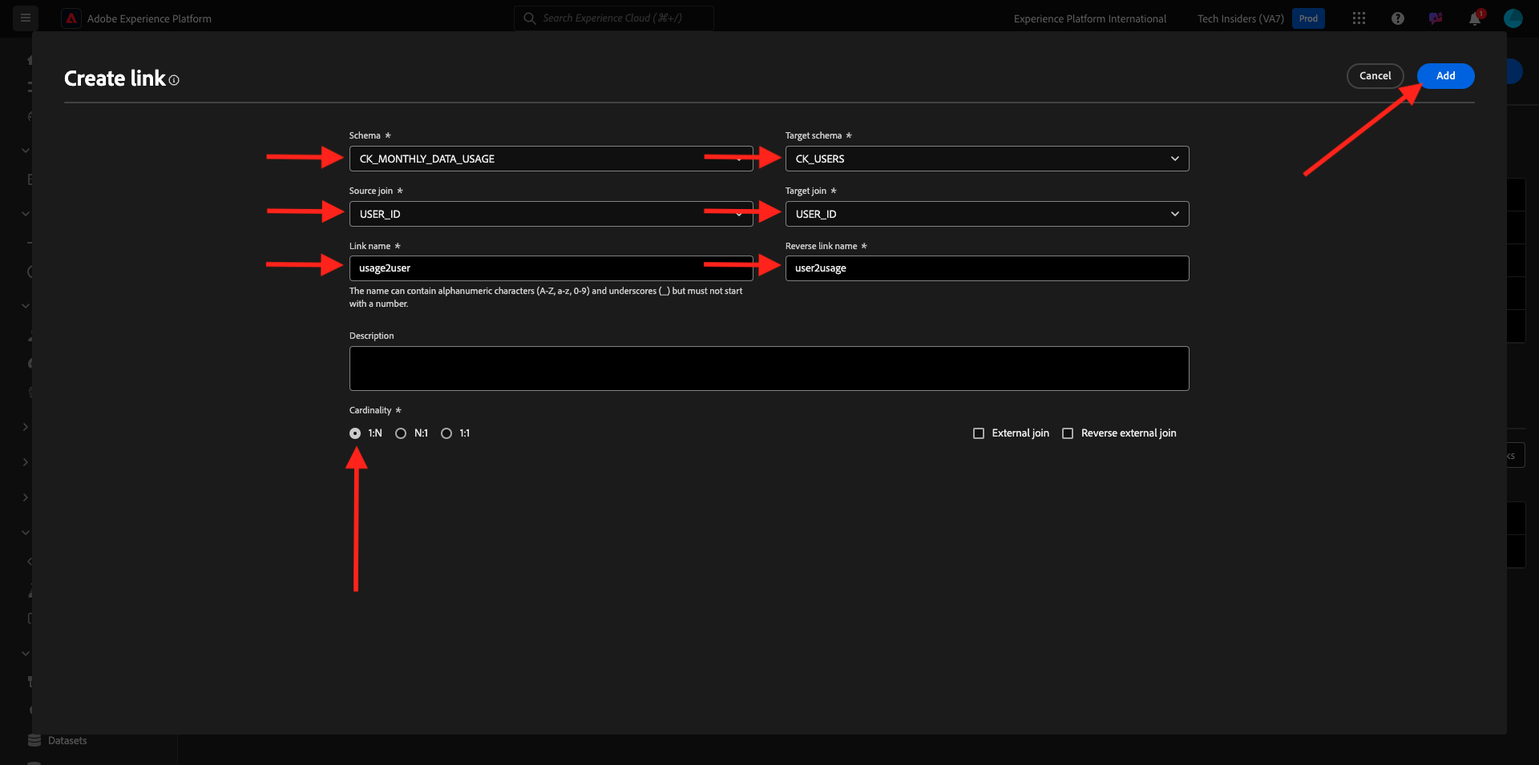
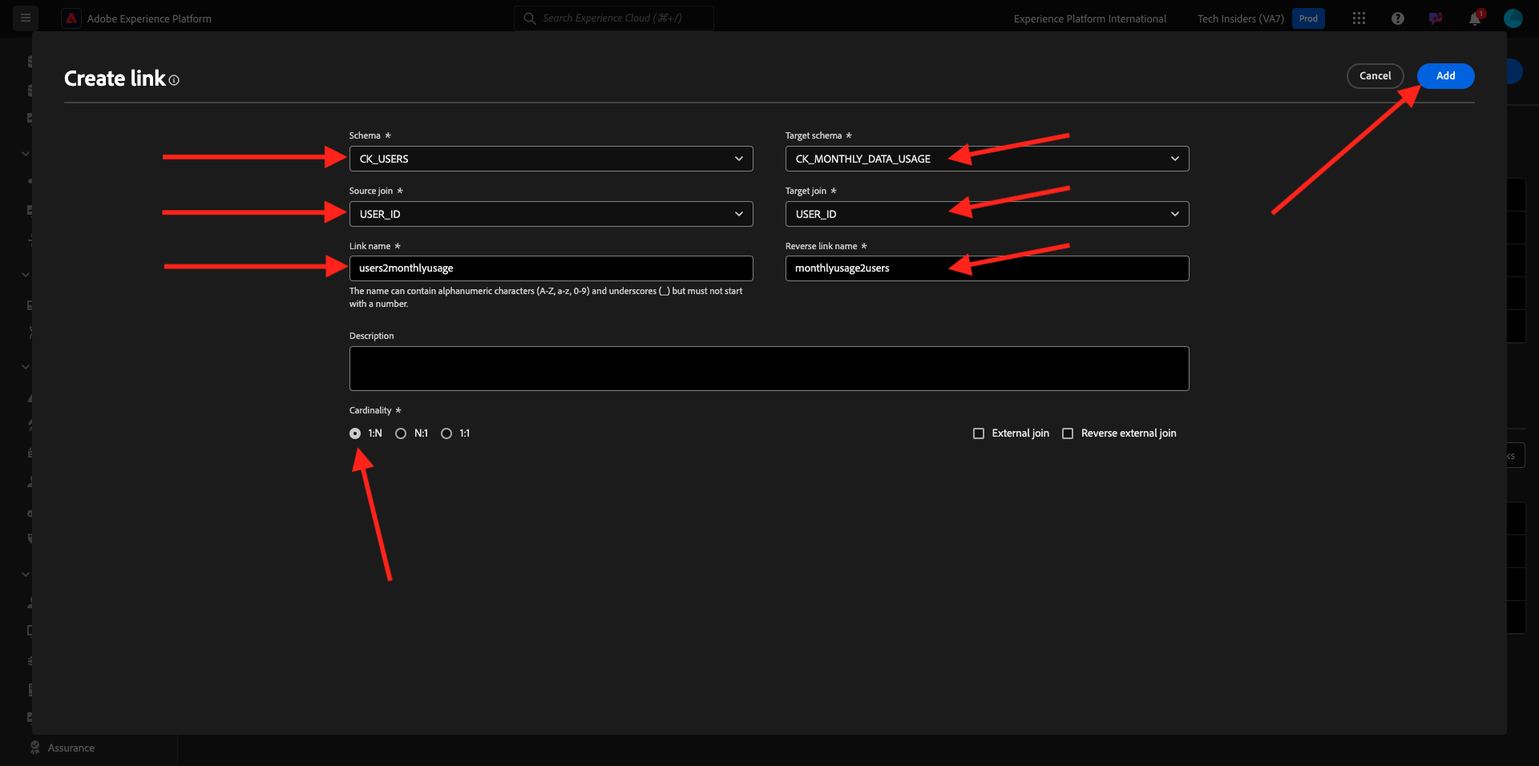
update to FAC

diff --git a/help/tutorial-comprehensive-technical/modules/datacollection/module1.3/ex1.md b/help/tutorial-comprehensive-technical/modules/datacollection/module1.3/ex1.md
@@ -68,7 +68,7 @@ create or replace TABLE CITISIGNAL.PUBLIC.CK_PERSONS (
 	PHONE_NUMBER VARCHAR(20),
 	GENDER VARCHAR(10),
 	OCCUPATION VARCHAR(100),
-	ISATTMOBILESUB BOOLEAN,
+	ISMOBILESUB BOOLEAN,
 	primary key (PERSON_ID)
 );
 ```
@@ -199,15 +199,342 @@ Once the script has run, you can find your table under **Databases > CITISIGNAL 
 
 All your tables are now created.
 
-
 ## 1.3.1.4 Ingest sample data
 
 You can now start loading sample data into your database.
 
-...
+Click **+ Create** and then select **SQL Worksheet**. 
+
+![FAC](./images/dataload1.png)
+
+You should then have this:
+
+![FAC](./images/dataload2.png)
+
+Copy the below query and paste it in the Snowflake worksheet.
+
+```sql
+USE SCHEMA CITISIGNAL.PUBLIC;
+
+/*
+ - HELPER FUNCTIONS
+   Simplifies SQL queries to fetch random/calculated data.
+*/
+CREATE OR REPLACE FUNCTION CK_RANDOM_NAME(NAME_TYPE STRING)
+RETURNS STRING
+LANGUAGE JAVASCRIPT
+AS $$
+  var FIRST_NAMES = ['Colly','Aubert','Berkeley','Debra','Caressa','Van','Gerome','Romonda','Clywd','Noemi','Heather','Benji','Gwenore','Robinson','Kathye','Roanne','Ainsley','Far','Chrissy','Adelina','Joseito','Shelbi','Stafani','Tabatha','Beverie','Constancia','Shalna','Ryan','Den','Iorgos','Monique','Becka','Justinian','Raimondo','Had','Noami','Karie','Rubin','Culver','Claudine','Petronilla','Frayda','Ketty','Rafa','Marlane','Jimmy','Ricoriki','Alfie','Velma','Dame','Ham','Westley','Ad','Nathan','Kris','Reba','Kort','Owen','Reynard','Gabie','Sandy','Evangelin','Sidonnie','Garrek','Uta','Morganica','Fannie','Glynnis','Denyse','Sharyl','Bard','Gillian','Martguerita','Catrina','Kameko','Flo','Gregory','Neille','Ninnette','Pamella','Riccardo','Georgi','Martainn','Dona','Frasco','Cordelie','Chloette','Rosette','Brena','Avictor','Webster','Elianora','Meridith','Jacky','Jena','Loise','Charmine','Adela','Letisha','Lyell','Tyrus','Eugenio','Bancroft','Quintus','Estelle','Bourke','Dick','Emmaline','Base','Tarrance','Baryram','Roldan','Holt','Silvia','Bonny','Fidelia','Gregor','Fran','Lloyd','Ann','Granny','Hali','Gusella','Misti','Cristobal','Seward','Myrwyn','Nani','Jaclin','Dorri','Denney','Ole','Maxy','Lorrin','Huey','Celle','Nixie','Rollins','Ethan','Staffard','Ynez','Galen','Gradeigh','Quinn','Liesa','Gustave','Janaya','Winthrop','Leonard','Matti','Pavel','Cyrillus','Jecho','Nicola','Misha','Locke','Ethyl','Caterina','Charles','Lewes','Guntar','Raoul','Gallagher','Melamie','Corney','Matty','Jocko','Faina','Sherlocke','Dermot','Bret','Elwood','Tootsie','Alissa','Arabela','Carolin','Christiane','Patty','Konstantin','Perri','Orrin','Graehme','Tallie','Kaiser','Camila','Ailyn','Myranda','Bertrand','Danna','Jeramie','Jillane','Tadeas','Kiel','Corey','Tedda','Jason','Bailey','Vinny','Rafael','Damon','Binky','Etan','Mike','Othella','Karissa','Adler','Gusti','Allix','Moira','Merrie','Elane','Krystle','Shep','Glyn','Yance','Anna-diane','Janene','Konstantine','Luciano','Beltran','Jamil','Shermie','Lazarus','Brewster','Brodie','Fidel','Quill','Dimitry','Michel','Daven','Carlin','Monroe','Cicily','Danny','Bentlee','Berta','Nari','Odo','Carleton','Vivianne','Lita','Carmencita','Sharia','Kaile','Brnaba','Corinna','Juan','Immanuel','Helen-elizabeth','Jacklin','Jefferey','Malanie','Skipton','Farr','Travus','Penny','Miles','Victoir','Darryl','Sheeree','Gabriel','Gilbert','Abba','Keefe','Rozalie','Amos','Tamqrah','Raddy','Allene','Boyce','Delano','Avigdor','Robenia','Rafi','Felicle','Cart','Bendick','Tremayne','Arlee','Jennette','Ty','Gare','Cornelle','Rand','Annissa','Lyn','Zebedee','Garek','Colleen','Tiena','Stacee','Gil','Chance','Killy','Bobine','Kahlil','Mac','Rowland','Lorine','Leoine','Booth','Karalynn','Hortensia','Randolph','Leo','Boyd','Ulberto','Mariquilla','Giulietta','Elga','Louisette','Leeanne','Rafe','Esme','Maddalena','David','Randie','Ianthe','Mead','Carlotta','Hasty','Dagmar','Drucy','Kingsley','Madeleine','Jarad','Micah','Sylvester','Ingra','Johannes','Harold','Rania','Friederike','Brandy','Sheffield','Dov','Jerrold','Rosemary','Reade','Morissa','Niven','Ruperta','Dacia','Allegra','Floyd','Bill','Sheila','Faunie','Devland','Brice','Saunderson','Jodi','Lane','Ray','Bondon','Daria','Tommie','Nealon','Charlena','Ivy','Evin','Judon','Wallace','Burch','Novelia','Aleen','Farlee','Erika','Isidora','Jessa','Lydon','Cass','Tandie','Giana','Patrica','Zacharie','Boycie','Tana','Madlin','Tildi','Keriann','Maxim','Vikki','Starlene','Sarine','Bennett','Mariette','Charmion','Binny','Shelton','Kristo','Micky','Bear','Garvin','Grady','Fay','Jane','Jeremie','Diandra','Branden','Franni','Leontine','Mendel','Noella','Leupold','Worthington','Melantha','Saul','Sunny','Marleen','Pryce','Lucy','Tabor','Anjela','Lulu','Juana','Wesley','Virginie','Candide','Sandye','Ronni','Ilyssa','Modesta','Dannie','Adena','Hildagarde','Rubetta','Joelynn','Car','Danyette','Kelsi','Loy','Kessiah','Karol','Evita','Neal','Jamey','Georgeta','Gino','Pammi','Jobina','Elston','Ayn','Price','Agnesse','Sarah','Lennie','Xenia','Jakie','Joellyn','North','Korney','Adrian','Zsazsa','Clarisse','Cad','Myrilla','Gill','Uri','Brannon','Meriel','Maryrose','Colet','Sheelah','Sande','Palmer','Ivar','Nomi','Corabelle','Warde','Morton','Homer','Eleanora','Kimmi','Ginelle','Rochella','Neilla','Amelita','Kevon','Risa','Karlyn','Garrott','Clovis','Foss','Cassius','Gerardo','Donall','Shawn','Jan','Gay','Angel','Datha','Domenic','Vonni','Mannie','Faye','Shane','Grove','Annabelle','Anita','Jeramey','Hurleigh','Ingelbert','Rhea','Chaddie','Tam','Lorry','Fedora','Ilsa','Jeannie','Geri','Lillian','Derrick','Rog','Rosella','Kirsten','Gonzales','Chuck','Ody','Dexter','Jerrylee','Jarrad','Wilmette','Amerigo','Vinnie','Urbano','Inigo','Rose','Teador','Burton','Bird','Bud','Jacki','Alberta','Felipe','Shadow','Judi','Rockey','Trueman','Freeland','Leela','Aurthur','Boot','Bucky','Anetta','Rhiamon','Lorna','Yule','Bary','Magdalene','Kalie','Robinett','Erasmus','Kellen','Reese','Jolie','Ruprecht','Sam','Shirlee','Jessie','Quinton','Shelagh','Blair','Debbi','Concordia','Bent','Brady','Carmen','Dionis','Skipp','De witt','Bastian','Napoleon','Cordie','Flor','Frannie','Carlye','Bondie','Anestassia','Andre','Mauricio','Bobbee','Hastings','Prudy','Willie','Geordie','Alphonso','Mamie','Casi','Sterne','Shelli','Hill','Jaymee','Harmonia','Brita','Charil','Zeb','Ekaterina','Ailis','Barde','Ellen','Hersch','Shae','Ronica','Gaultiero','Lissie','Alanah','Matt','Erie','Domenico','Free','Cly','Libbi','Mason','Terese','Helena','Brittan','Cyrille','Wells','Birk','Nessie','Kalila','Bel','Bartholomeo','Hinze','Faythe','Midge','Alaine','Wilmar','Sawyer','Karrah','Rabi','Jervis','Charla','Maryanne','Leola','Beckie','Thacher','Staci','Johnny','Melvyn','Carrie','Micki','Armin','Brooke','Valdemar','Halette','Malina','Haydon','Katusha','Ferrel','Sidnee','Shirleen','Forest','Magdalena','Lillis','Lock','Dominik','Vernen','Lib','Giordano','Jareb','Town','Doris','Chevalier','Arte','Smith','Carlee','Davine','Beaufort','Corbin','Janeva','Spencer','Melicent','Alfy','Emerson','Gerladina','Margo','Elyssa','Tyler','Dru','Care','Kirk','Lambert','Julietta','Brett','Lida','Cody','Kass','Dalenna','Maud','Garrick','Broderick','Darill','Maia','Reed','Lyndel','Tremaine','Angy','Eldredge','Mara','Brien','Nancey','Carmita','Siouxie','Winslow','Ezra','Robyn','Pearce','Hussein','Zacharia','Bernie','Darb','Truman','Felisha','Seth','Nikita','Milo','Rivi','Krisha','Adlai','Ursula','Korey','Valencia','Randene','Anya','Aimil','Zulema','Aundrea','Yoshiko','Adelaide','Berni','Nessa','Alys','Evyn','Fernanda','Linus','Eugine','Mareah','Maryl','Dolley','Debora','Sonny','Isac','Kerrill','Hershel','Berti','Fairfax','Guinna','Randee','Brantley','Mariann','Kaela','Lamond','Vasili','Chancey','Isidro','Amabel','Liane','Nikkie','Aldus','Alonso','Louis','Kimbell','Cami','Hanni','Morie','Ceil','Farrand','Romeo','Flint','Meaghan','Marquita','Lucienne','Terri','Rubie','Garnette','Fawn','Victor','Nikolaos','Aurore','Sly','Archy','Lazaro','Valerie','Prent','Mira','Rriocard','Felice','Hastie','Mel','Lenard','Renee','Paolina','Murdoch','Bellanca','Merlina','Clary','Izaak','Cherida','Uriel','Megen','Susette','Karney','Philipa','Karna','Charmain','Jennine','Jorrie','Gawain','Lishe','Darnell','Blake','Lina','Thorstein','Sydelle','Lind','Wandie','Pierrette','Johnath','Dianna','Wallis','Lemmie','Maddi','Ardra','Akim','Burg','Patsy','Alverta','Cristina','Chloris','Aindrea','Vi','Boigie','Harman','Stanfield','Hilario','Tova','Vida','Smitty','Arman','Ewell','Cos','Sibbie','Corri','Laurence','Marion','Doralynne','Dominique','Hailey','Rem','Doe','Cthrine','Dina','Nola','Pepito','Fredelia','Wileen','Thane','Christoffer','Uriah','Caldwell','Claudio','Lucho','Darby','Papagena','Hy','Lindsy','Gena','Natale','Dwight','Clea','Molly','Brandea','Gaby','Stesha','Etty','Margarethe','Grace','Melisande','Cathrin','Khalil','Jasmina','Niccolo','Maurise','Elana','Leonie','Chadd','Justina','Lindon','Ofilia','Cooper','Grantham','Georgetta','Jacobo','Cinderella','Julian','Monte','Sawyere','Saunders','Josi','Salvatore','Mylo','Missie','Jaquelyn','Orsola','Gareth','Denver','Bobby','Naoma','Gretal','Reid','Alexine','Rodrick','Rori','Rudyard','Norean','Bobinette','Lynett','Ronny','Theresina','Anabelle','Alana','Mahala','Joletta','Vonnie','Jordan','Adella','Ermentrude','Garrard','Helge','Raynor','Clevie','Sibby','Clementine','Michelina','Rosene','Peyton','Malchy','Rosalie','Rudie','Dominga','Berte','Phebe','Chrysa','Doroteya','Suzanna','Bren','Lionel','Clarke','Nils','Bridgette','Alysa','Abigail','Augustine','Zollie','Barnie','Veda','Row','Anet','Ryon','Cleopatra','Alejandro','Alfonse','Janos','Glynn','Andrei','Tannie','Latashia','Gertie','Daniele','Damien','Samson','Rockie','Theobald','Delainey','Itch','Charlie','Inglis','Florence','Kay','Fonz','Ezekiel','Max','Ruth','Nichols','Nellie','Reena','Candace','Beatrix','Templeton','Aloin','Mitchel','Noell','Lorinda','Alley','Gard','Sybila','Tressa','Nanny'];
+
+  var LAST_NAMES = ['Fayer','MacKereth','Boddington','Balassi','Trustrie','Casin','Spry','Dashkovich','Hopkyns','Tant','Birkenshaw','Grube','Ricoald','Gudd','Chesnut','Eilers','Cadwell','Frayn','Filpi','Skypp','Medhurst','Bidgod','Giovannelli','Annon','Benedicte','Killigrew','Oldfield','Donwell','Charter','Rainsden','Farrants','Boniface','Chillingworth','Langstone','Cubuzzi','Hubner','Peye','Spada','Dwelly','Krysztofiak','Brazener','Kingman','Ceyssen','Wheelwright','McGarry','Novakovic','Gietz','Blenkharn','Mesnard','Twiddy','McPaik','Wonter','Cabrara','Catterson','De Bruyn','Charke','Salan','Rayne','Pollington','Gascoyen','Giannazzi','Peggs','Bigly','Connow','Noddings','Tuminelli','Puleston','Meere','Palumbo','Veevers','Matyushkin','Austin','Winsom','Yacobsohn','Flawn','Stanlock','Rookledge','Sherewood','Penhall','Barcroft','Menat','Driffill','Egarr','Funnell','Motte','Hender','Aron','Hutten','Borris','McGeorge','Perillo','Burdon','Reina','Fillingham','Errol','Winger','Morlon','Isaacson','Senogles','Clewes','Lafee','Jasik','Kernoghan','Newbatt','Mariault','Walls','Jubert','Bunclark','Perryman','Brough','Aickin','Dumphries','Mauger','Dabinett','Donizeau','Oakwell','Coppo','Rodder','Grigoriev','Veitch','Campo','Stoddard','Ferruzzi','MacAfee','Grindle','Mussotti','Hebburn','Cornils','Thornton-Dewhirst','Spofforth','Alyonov','Harrema','Yarnton','Stinchcombe','Spafford','Smout','Schlagman','Lethibridge','MacGuigan','Fuke','Lohrensen','Leat','Hedgeman','Jachimiak','Lockey','Cuolahan','Aitcheson','Kelemen','Kneaphsey','Housaman','Maffezzoli','Reay','Haggleton','Bavester','Barratt','Albrecht','Pattillo','Surplice','Adams','Shone','Rigglesford','Pinxton','Hexham','Calafato','Hillin','O\'Lone','Buntain','Masey','Thunderchief','Derkes','Kenwood','Gleave','Garretson','Gorghetto','Studdeard','Malam','Haquin','Allsebrook','Bethell','Diver','Grancher','Whittaker','Balasin','Copcote','Bartelli','Selman','Matousek','De Vaan','Hoolaghan','Elcoat','Medforth','Mullineux','Parminter','Elliott','Sherland','Kivelhan','Toplin','Cobello','Helsdon','Burberye','Jeske','Petrowsky','Eslinger','Challens','Senyard','Bucklee','Vidloc','Goldup','Rousel','Pendleton','Husset','Tonbridge','Dufour','Lisamore','Sinfield','Southall','Penna','Yeliashev','Edsall','Jiruca','Cunnington','Rathe','Outhwaite','Pooke','Quinnelly','Roja','Krysztofowicz','Iglesia','Mawd','Sive','Whife','Wymer','Gravey','Befroy','Shitliffe','Pierro','Ginnane','McFayden','Creaven','Dutnall','Garfield','Bilton','Bramwell','Ram','Sheldrake','Pittendreigh','Sondon','Larret','Navein','Rames','Trobridge','Bakhrushkin','Leer','Garratt','Culshaw','Jayme','Croisdall','Cooling','Cavy','Grandisson','Minear','Spoward','Isakson','Normabell','Klimpt','Cheeke','Peeke-Vout','Lippitt','Wason','Beyer','MacIlhagga','Sterley','Arguile','Ingamells','Beininck','O\'Connell','Mulles','Owbrick','Jerzycowski','Ferreres','Cribbin','Bodill','Folke','McDonnell','Whittles','Gelletly','Merali','Karolczyk','Pes','Borsnall','Wakefield','Dulake','Risdale','Garvagh','Robiot','Klarzynski','O\'Brien','Cordeix','Keling','Camden','Bellay','Pimlett','Vodden','Merfin','Longland','Cometson','Menel','O\'Connor','Swallow','Challinor','Dalyell','Huscroft','Sherlock','Greneham','Tizard','Hetterich','Ethersey','Faragan','Lorkin','Mewis','Gwyneth','Mansion','Crook','Aloshkin','Vondrasek','Went','Vittery','Scarman','Tynan','Alessandrucci','Housam','Pluck','Clever','Ritchard','Dunham','Domnin','Bollon','Bavister','Sketcher','Conyers','Chaize','Fernanando','Minchell','Berni','Barrim','Arnaudi','Buesnel','Belcham','Poolman','Lovie','Dorset','Thaller','Dellenty','Sidwick','Gawne','Butteris','Sawl','Malley','Thomason','Poundsford','Sumner','Minchinton','Pietersen','Hrynczyk','Narrie','Palfreman','Blees','Galia','Fredi','Endricci','Beard','Penbarthy','Sparkes','Dilks','Piesing','Lerhinan','Cattroll','Durnell','Coppard','Littlecote','Grant','Dionisetti','Mager','Gynn','Ellett','Warrener','Ahrend','Strasse','Diben','Shalloe','Radwell','Shingles','Benton','Lutman','Heppenspall','Firpo','Marioneau','Rubenov','Seyler','Woodley','Dowbekin','Nason','Brownscombe','Gronou','Cluckie','Moreside','Hirsch','Raffon','Girardet','McDermid','Fenwick','Layfield','Dabernott','Doyle','Burborough','McLewd','Jevons','James','McCoish','Chiplin','Dalbey','Bodiam','Morforth','Rickaert','Taylour','Daglish','Teasell','Carlsson','Kennerley','Provost','Harome','Battram','Howels','Brunt','Abry','Wiltshier','Astill','Wither','Schwander','Kleinsmuntz','Clausner','Kroon','Pitcock','Lerven','Lorens','Jupe','Connechie','Dennington','Leehane','Dohmer','Townley','Michelet','Gorrick','Varney','Allin','Agget','Lown','Sterke','Chatain','Jurczik','Kemwal','Houldcroft','Le febre','Smerdon','Alderman','Gimber','Kilgrew','Berriball','Sparshatt','Plester','Bartoleyn','Kelmere','Doelle','Jaimez','Trodden','Sandiland','Treneer','Iannazzi','Danihel','Gallyon','Teasdale-Markie','Spinney','Colnet','Bugg','Cochran','Schimoni','Lakey','Nuscha','Cottingham','Arnaudin','Dory','Tejada','Plewman','Diego','Swarbrick','Wilse','Axtonne','Armytage','Kinzel','Tomankiewicz','Schanke','Chitson','Lange','Totaro','Clausen-Thue','Barham','Aikin','McIlmorie','Sains','Burgan','Nanelli','Niblock','Matthewson','Dovidaitis','Claremont','Frostdicke','Ilyunin','Wright','Padbery','Lightwing','Warden','Higgonet','Worsnup','Gergolet','Sellack','Standell','Iddens','Jeandeau','Renforth','Tanti','Henzley','Goby','Cornels','Hazeldean','Pringell','Holwell','Picken','Sima','Puddicombe','d\'Elboux','Muscott','Seville','MacAughtrie','Merton','Empleton','Dadd','Lawrenz','Vaneschi','Witheford','Walworth','Dodell','Kopke','Lauritzen','Rudwell','Klyner','Franceschielli','Gilbank','Birkbeck','Rivallant','Sweeney','Thurston','Strethill','Franklyn','Adamovicz','Glaum','Brockman','Basso','Kimmings','Rockcliffe','Alphege','Greensall','Canario','Brickett','Eacle','Woller','Weond','McKeaveney','Portlock','Piggott','Davidge','Schrieves','Reubbens','Woodrup','McGowan','Romme','Bohlens','Standfield','Poacher','Mateiko','Bezzant','Copin','male','Cereceres','Senn','Ganter','Allberry','Ife','Uvedale','Pretsell','Maryman','Folcarelli','McAuliffe','Wansbury','Glasby','Ingle','Culham','Line','Cristol','Stronghill','Medlin','Rowledge','Dowdeswell','Conneely','Halhead','Vivien','Winstone','Guitt','Walbridge','Escala','Anton','Bernardoux','MacGrath','Fieldstone','Hearl','Roels','Gallandre','Bauldrey','Keningham','Blything','Fontin','O\'Shea','Escreet','Kennelly','Cushion','Randalston','Ravilus','Worvell','Gulliver','Micklewright','Voas','Grimmert','Ashton','Horsewood','Scrivens','Gammel','Casado','Juniper','Shacklady','Hacard','Duddell','Stitwell','Kelle','Richemont','Mendes','Gerauld','Bowcher','Fischer','Snare','Grayham','Selvester','Babbe','Coalburn','Denzey','Featherstone','Carillo','Kinvan','Vater','Garrish','Keeltagh','Belleny','Jerzak','Loveredge','MacMichael','McAlinion','Pykett','Tendahl','Cackett','Rainforth','Closs','Mellish','Ronayne','Gatch','Moynham','Talman','Stow','Gleed','Apted','Swannie','Flahy','Bugdall','Clowes','Staniford','Sauvage','Yates','Pirri','Fairebrother','Townsend','Vasilyevski','Downey','Crotch','Toffano','Harefoot','Fownes','Theurer','Parffrey','Hargrave','Dorgon','Saben','Inwood','Hars','Juorio','Darcey','Blasi','Toft','Rodenborch','Pickthall','Chastelain','Brettoner','Goodie','Fransewich','Maplethorpe','Bierton','Minchella','Keyse','Moody','Pietz','Petroff','Ismirnioglou','Somersett','Byne','Lathleiffure','Nield','Burbudge','Wibrew','Goldney','Van der Kruijs','Nutter','Giacopetti','Dufore','Blackhall','Hallas','Cullabine','Newling','Lengthorn','Blandford','Alred','Phillcock','Twinbrow','Ipplett','Bluck','Minchin','McShea','Flecknoe','Renehan','Sproat','Lujan','Deerness','Vaines','Aldins','Bewick','Lambrook','Kaman','Mathias','Rampley','Kops','Jeanneau','Grebner','Comizzoli','Jossum','Netherwood','Edgeson','Fattorini','Tunnadine','Stoppe','Pasquale','Node','Kleinstein','Teather','Ledwich','Etty','Gownge','Blyth','Thies','Beldan','Durber','Giuron','Tether','Callingham','Murden','Sarrell','Licciardiello','Dommersen','Steuart','Saxton','Gobbett','Halleybone','Duplan','Novak','Burnip','Keri','Redparth','Body','Sollam','Powlesland','Waghorn','Geeson','Kidde','Magill','Duberry','Godding','Gudgion','Burney','Lean','Perigoe','Shearmur','Doblin','Deniscke','Orring','Jull','Berardt','Stookes','Thiem','Trevain','D\'Elias','Guilloud','Chasteau','Oboy','Klemz','Savidge','Nation','Silburn','Coldridge','Paskerful','Bicknell','Handke','Aldwick','Ostridge','Pascho','Brotherick','Millican','O\'Donnelly','Serginson','Gosse','Filyukov','Moyles','Rembrant','Poolton','Jeacock','Totton','Burkart','Charles','Storah','Newark','Baden','Manifold','Meacher','Tolomei','Andrick','Dyke','Bordis','Neno','Murray','Calrow','Leicester','Durek','Pilkington','Deme','Francescuccio','Leftridge','Rubel','Loren','McCay','Bellard','d\'Eye','Gilder','Krahl','Corbyn','Leades','Bewly','Adamovsky','Yeowell','Jeacocke','Gaitung','Maffia','Delahunty','Liddicoat','Durward','Solomonides','Bidewell','Capstake','Cutajar','Erwin','Remington','Coole','Birkinshaw','Dewdeny','Artois','Dunkley','Dungee','Gait','Minton','Cowherd','Rattenbury','Suche','Comfort','Manuaud','Gut','Siemandl','Aleshintsev','Baty','Matushevich','Bernardin','Stoaks','Lanmeid','O\'Concannon','Riping','Grand','Rivel','Middell','Sibbons','Mouser','Dudenie','Horrigan','McPhelimy','Heintsch','Sabater','Genn','Brydon','Merrell','Maudling','Purseglove','Gisbey','Wormleighton','Linge','Daniel','Owlner','Kohrsen','Ray','Coyett','Meir','Moyser','Mizen','Speechly','Barck','Gossage','De la croix','Shute','Woodham','Gedge','Biermatowicz','Whitchurch','Curmi','Chave','Bingham','Muncey','Giles','Yeude','Dissman','Mariet','Kintish','MacPeake','Atkinson','Gaw','Tryhorn','Rendle','Everil','Milan','Tyler','MacIntosh','Pridmore','Shyres','Aucock','Gott','Arnow','Highton','Richardes','Yateman','Gergely','Westover','Ellerker','Whitmore','Robak','Say','Bisatt','Doumerque','Tommaseo','Vasyunin','Colbourne','Marrow','Paulson','Hathorn','Hartman','Lyman','Leband','Glowinski','Beccles','Kildale','Noblett','Gobourn','Kissock'];
+
+  if (NAME_TYPE.toLowerCase().trim() === 'first')
+    return FIRST_NAMES[(Math.floor(Math.random() * FIRST_NAMES.length))];
+
+  if (NAME_TYPE.toLowerCase().trim() === 'last')
+    return LAST_NAMES[(Math.floor(Math.random() * LAST_NAMES.length))];
+
+  return FIRST_NAMES[(Math.floor(Math.random() * FIRST_NAMES.length))] + ' ' + LAST_NAMES[(Math.floor(Math.random() * LAST_NAMES.length))];
+
+$$;
+
+
+CREATE OR REPLACE FUNCTION CK_RANDOM_ADDRESS(LOC_TYPE STRING, CITY STRING)
+RETURNS STRING
+LANGUAGE JAVASCRIPT
+AS $$
+  var LOCATIONS = [
+      { "city": "Pune", "state": "Maharashtra", "statecode": "MH", "country": "India", "countrycode": "IN", "postalcode": "89847" },
+      { "city": "Los Angeles", "state": "California", "statecode": "CA", "country": "United States", "countrycode": "US", "postalcode": "81280" },
+      { "city": "San Francisco", "state": "California", "statecode": "CA", "country": "United States", "countrycode": "US", "postalcode": "99840" },
+      { "city": "Foshan", "state": "Guangdong", "statecode": "GD", "country": "China", "countrycode": "CN", "postalcode": "21579" },
+      { "city": "Birmingham", "state": "England", "statecode": "ENG", "country": "United Kingdom", "countrycode": "GB", "postalcode": "60712" },
+      { "city": "Foshan", "state": "Guangdong", "statecode": "GD", "country": "China", "countrycode": "CN", "postalcode": "52870" },
+      { "city": "Mumbai", "state": "Maharashtra", "statecode": "MH", "country": "India", "countrycode": "IN", "postalcode": "31893" },
+      { "city": "Paris", "state": "\u00cele-de-France", "statecode": "IDF", "country": "France", "countrycode": "FR", "postalcode": "50967" },
+      { "city": "Shinjuku", "state": "Tokyo", "statecode": "TK", "country": "Japan", "countrycode": "JP", "postalcode": "75700" },
+      { "city": "Los Angeles", "state": "California", "statecode": "CA", "country": "United States", "countrycode": "US", "postalcode": "88979" },
+      { "city": "Shenzhen", "state": "Guangdong", "statecode": "GD", "country": "China", "countrycode": "CN", "postalcode": "39336" },
+      { "city": "Boulogne", "state": "\u00cele-de-France", "statecode": "IDF", "country": "France", "countrycode": "FR", "postalcode": "64890" },
+      { "city": "Mumbai", "state": "Maharashtra", "statecode": "MH", "country": "India", "countrycode": "IN", "postalcode": "80106" },
+      { "city": "Augsburg", "state": "Bavaria", "statecode": "BY", "country": "Germany", "countrycode": "DE", "postalcode": "82025" },
+      { "city": "Houston", "state": "Texas", "statecode": "TX", "country": "United States", "countrycode": "US", "postalcode": "56054" },
+      { "city": "Augsburg", "state": "Bavaria", "statecode": "BY", "country": "Germany", "countrycode": "DE", "postalcode": "79325" },
+      { "city": "New York", "state": "New York", "statecode": "NY", "country": "United States", "countrycode": "US", "postalcode": "23525" },
+      { "city": "Guangzhou", "state": "Guangdong", "statecode": "GD", "country": "China", "countrycode": "CN", "postalcode": "32643" },
+      { "city": "Houston", "state": "Texas", "statecode": "TX", "country": "United States", "countrycode": "US", "postalcode": "20728" },
+      { "city": "Versailles", "state": "\u00cele-de-France", "statecode": "IDF", "country": "France", "countrycode": "FR", "postalcode": "94255" },
+      { "city": "Tokyo", "state": "Tokyo", "statecode": "TK", "country": "Japan", "countrycode": "JP", "postalcode": "24381" },
+      { "city": "San Francisco", "state": "California", "statecode": "CA", "country": "United States", "countrycode": "US", "postalcode": "35891" },
+      { "city": "Shinjuku", "state": "Tokyo", "statecode": "TK", "country": "Japan", "countrycode": "JP", "postalcode": "57425" },
+      { "city": "Chiyoda", "state": "Tokyo", "statecode": "TK", "country": "Japan", "countrycode": "JP", "postalcode": "20908" },
+      { "city": "Versailles", "state": "\u00cele-de-France", "statecode": "IDF", "country": "France", "countrycode": "FR", "postalcode": "54605" },
+      { "city": "New York", "state": "New York", "statecode": "NY", "country": "United States", "countrycode": "US", "postalcode": "83120" },
+      { "city": "Austin", "state": "Texas", "statecode": "TX", "country": "United States", "countrycode": "US", "postalcode": "20947" },
+      { "city": "Munich", "state": "Bavaria", "statecode": "BY", "country": "Germany", "countrycode": "DE", "postalcode": "43801" },
+      { "city": "Foshan", "state": "Guangdong", "statecode": "GD", "country": "China", "countrycode": "CN", "postalcode": "98660" },
+      { "city": "Paris", "state": "\u00cele-de-France", "statecode": "IDF", "country": "France", "countrycode": "FR", "postalcode": "52348" },
+      { "city": "Augsburg", "state": "Bavaria", "statecode": "BY", "country": "Germany", "countrycode": "DE", "postalcode": "30496" },
+      { "city": "Guangzhou", "state": "Guangdong", "statecode": "GD", "country": "China", "countrycode": "CN", "postalcode": "57780" },
+      { "city": "Dallas", "state": "Texas", "statecode": "TX", "country": "United States", "countrycode": "US", "postalcode": "86819" },
+      { "city": "Guangzhou", "state": "Guangdong", "statecode": "GD", "country": "China", "countrycode": "CN", "postalcode": "55787" },
+      { "city": "Versailles", "state": "\u00cele-de-France", "statecode": "IDF", "country": "France", "countrycode": "FR", "postalcode": "98976" },
+      { "city": "Mumbai", "state": "Maharashtra", "statecode": "MH", "country": "India", "countrycode": "IN", "postalcode": "11270" },
+      { "city": "San Francisco", "state": "California", "statecode": "CA", "country": "United States", "countrycode": "US", "postalcode": "95082" },
+      { "city": "Birmingham", "state": "England", "statecode": "ENG", "country": "United Kingdom", "countrycode": "GB", "postalcode": "78474" },
+      { "city": "Buffalo", "state": "New York", "statecode": "NY", "country": "United States", "countrycode": "US", "postalcode": "69713" },
+      { "city": "Manchester", "state": "England", "statecode": "ENG", "country": "United Kingdom", "countrycode": "GB", "postalcode": "63192" },
+      { "city": "Guangzhou", "state": "Guangdong", "statecode": "GD", "country": "China", "countrycode": "CN", "postalcode": "37839" },
+      { "city": "Nuremberg", "state": "Bavaria", "statecode": "BY", "country": "Germany", "countrycode": "DE", "postalcode": "30748" },
+      { "city": "Houston", "state": "Texas", "statecode": "TX", "country": "United States", "countrycode": "US", "postalcode": "78363" },
+      { "city": "Versailles", "state": "\u00cele-de-France", "statecode": "IDF", "country": "France", "countrycode": "FR", "postalcode": "94358" },
+      { "city": "Shenzhen", "state": "Guangdong", "statecode": "GD", "country": "China", "countrycode": "CN", "postalcode": "18200" },
+      { "city": "Mumbai", "state": "Maharashtra", "statecode": "MH", "country": "India", "countrycode": "IN", "postalcode": "12997" },
+      { "city": "Nagpur", "state": "Maharashtra", "statecode": "MH", "country": "India", "countrycode": "IN", "postalcode": "50806" },
+      { "city": "Tokyo", "state": "Tokyo", "statecode": "TK", "country": "Japan", "countrycode": "JP", "postalcode": "53856" },
+      { "city": "Nagpur", "state": "Maharashtra", "statecode": "MH", "country": "India", "countrycode": "IN", "postalcode": "66905" },
+      { "city": "Nuremberg", "state": "Bavaria", "statecode": "BY", "country": "Germany", "countrycode": "DE", "postalcode": "18334" },
+      { "city": "Versailles", "state": "\u00cele-de-France", "statecode": "IDF", "country": "France", "countrycode": "FR", "postalcode": "84015" },
+      { "city": "Munich", "state": "Bavaria", "statecode": "BY", "country": "Germany", "countrycode": "DE", "postalcode": "43580" },
+      { "city": "Albany", "state": "New York", "statecode": "NY", "country": "United States", "countrycode": "US", "postalcode": "11824" },
+      { "city": "Chiyoda", "state": "Tokyo", "statecode": "TK", "country": "Japan", "countrycode": "JP", "postalcode": "73129" },
+      { "city": "London", "state": "England", "statecode": "ENG", "country": "United Kingdom", "countrycode": "GB", "postalcode": "39677" },
+      { "city": "Chiyoda", "state": "Tokyo", "statecode": "TK", "country": "Japan", "countrycode": "JP", "postalcode": "50078" },
+      { "city": "Boulogne", "state": "\u00cele-de-France", "statecode": "IDF", "country": "France", "countrycode": "FR", "postalcode": "45942" },
+      { "city": "Tokyo", "state": "Tokyo", "statecode": "TK", "country": "Japan", "countrycode": "JP", "postalcode": "47718" },
+      { "city": "Birmingham", "state": "England", "statecode": "ENG", "country": "United Kingdom", "countrycode": "GB", "postalcode": "22691" },
+      { "city": "Shinjuku", "state": "Tokyo", "statecode": "TK", "country": "Japan", "countrycode": "JP", "postalcode": "29946" },
+      { "city": "Albany", "state": "New York", "statecode": "NY", "country": "United States", "countrycode": "US", "postalcode": "29990" },
+      { "city": "London", "state": "England", "statecode": "ENG", "country": "United Kingdom", "countrycode": "GB", "postalcode": "32487" },
+      { "city": "Birmingham", "state": "England", "statecode": "ENG", "country": "United Kingdom", "countrycode": "GB", "postalcode": "92014" },
+      { "city": "London", "state": "England", "statecode": "ENG", "country": "United Kingdom", "countrycode": "GB", "postalcode": "37411" },
+      { "city": "Albany", "state": "New York", "statecode": "NY", "country": "United States", "countrycode": "US", "postalcode": "64737" },
+      { "city": "London", "state": "England", "statecode": "ENG", "country": "United Kingdom", "countrycode": "GB", "postalcode": "16935" },
+      { "city": "Shenzhen", "state": "Guangdong", "statecode": "GD", "country": "China", "countrycode": "CN", "postalcode": "71090" },
+      { "city": "Los Angeles", "state": "California", "statecode": "CA", "country": "United States", "countrycode": "US", "postalcode": "41428" },
+      { "city": "Los Angeles", "state": "California", "statecode": "CA", "country": "United States", "countrycode": "US", "postalcode": "75721" },
+      { "city": "Guangzhou", "state": "Guangdong", "statecode": "GD", "country": "China", "countrycode": "CN", "postalcode": "63059" },
+      { "city": "Boulogne", "state": "\u00cele-de-France", "statecode": "IDF", "country": "France", "countrycode": "FR", "postalcode": "38026" },
+      { "city": "Boulogne", "state": "\u00cele-de-France", "statecode": "IDF", "country": "France", "countrycode": "FR", "postalcode": "80720" },
+      { "city": "Nagpur", "state": "Maharashtra", "statecode": "MH", "country": "India", "countrycode": "IN", "postalcode": "75033" },
+      { "city": "Chiyoda", "state": "Tokyo", "statecode": "TK", "country": "Japan", "countrycode": "JP", "postalcode": "78620" },
+      { "city": "Pune", "state": "Maharashtra", "statecode": "MH", "country": "India", "countrycode": "IN", "postalcode": "43180" },
+      { "city": "Munich", "state": "Bavaria", "statecode": "BY", "country": "Germany", "countrycode": "DE", "postalcode": "91340" },
+      { "city": "Pune", "state": "Maharashtra", "statecode": "MH", "country": "India", "countrycode": "IN", "postalcode": "64069" },
+      { "city": "Foshan", "state": "Guangdong", "statecode": "GD", "country": "China", "countrycode": "CN", "postalcode": "78737" },
+      { "city": "Birmingham", "state": "England", "statecode": "ENG", "country": "United Kingdom", "countrycode": "GB", "postalcode": "85770" },
+      { "city": "Chiyoda", "state": "Tokyo", "statecode": "TK", "country": "Japan", "countrycode": "JP", "postalcode": "60044" },
+      { "city": "Dallas", "state": "Texas", "statecode": "TX", "country": "United States", "countrycode": "US", "postalcode": "77590" },
+      { "city": "Munich", "state": "Bavaria", "statecode": "BY", "country": "Germany", "countrycode": "DE", "postalcode": "66003" },
+      { "city": "Dallas", "state": "Texas", "statecode": "TX", "country": "United States", "countrycode": "US", "postalcode": "48590" },
+      { "city": "Albany", "state": "New York", "statecode": "NY", "country": "United States", "countrycode": "US", "postalcode": "53375" },
+      { "city": "Guangzhou", "state": "Guangdong", "statecode": "GD", "country": "China", "countrycode": "CN", "postalcode": "61355" },
+      { "city": "Boulogne", "state": "\u00cele-de-France", "statecode": "IDF", "country": "France", "countrycode": "FR", "postalcode": "10854" },
+      { "city": "Tokyo", "state": "Tokyo", "statecode": "TK", "country": "Japan", "countrycode": "JP", "postalcode": "71714" },
+      { "city": "Tokyo", "state": "Tokyo", "statecode": "TK", "country": "Japan", "countrycode": "JP", "postalcode": "98879" },
+      { "city": "Buffalo", "state": "New York", "statecode": "NY", "country": "United States", "countrycode": "US", "postalcode": "49238" },
+      { "city": "Pune", "state": "Maharashtra", "statecode": "MH", "country": "India", "countrycode": "IN", "postalcode": "97134" },
+      { "city": "Boulogne", "state": "\u00cele-de-France", "statecode": "IDF", "country": "France", "countrycode": "FR", "postalcode": "74784" },
+      { "city": "Tokyo", "state": "Tokyo", "statecode": "TK", "country": "Japan", "countrycode": "JP", "postalcode": "89242" },
+      { "city": "Guangzhou", "state": "Guangdong", "statecode": "GD", "country": "China", "countrycode": "CN", "postalcode": "80931" },
+      { "city": "Birmingham", "state": "England", "statecode": "ENG", "country": "United Kingdom", "countrycode": "GB", "postalcode": "78054" },
+      { "city": "Shenzhen", "state": "Guangdong", "statecode": "GD", "country": "China", "countrycode": "CN", "postalcode": "24361" },
+      { "city": "Manchester", "state": "England", "statecode": "ENG", "country": "United Kingdom", "countrycode": "GB", "postalcode": "85786" },
+      { "city": "Boulogne", "state": "\u00cele-de-France", "statecode": "IDF", "country": "France", "countrycode": "FR", "postalcode": "77298" },
+      { "city": "Austin", "state": "Texas", "statecode": "TX", "country": "United States", "countrycode": "US", "postalcode": "47941" },
+      { "city": "London", "state": "England", "statecode": "ENG", "country": "United Kingdom", "countrycode": "GB", "postalcode": "81595" },
+      { "city": "Austin", "state": "Texas", "statecode": "TX", "country": "United States", "countrycode": "US", "postalcode": "12236"}
+    ];
+
+  if (LOC_TYPE.toLowerCase().trim() === 'city')
+    return LOCATIONS[(Math.floor(Math.random() * LOCATIONS.length))]['city'];
+
+  if (LOC_TYPE.toLowerCase().trim() === 'state' && CITY) {
+    var selected_loc = LOCATIONS.filter(r => r.city===CITY);
+    return selected_loc[(Math.floor(Math.random() * selected_loc.length))]['state'];
+  }
+
+  if (LOC_TYPE.toLowerCase().trim() === 'statecode' && CITY) {
+    var selected_loc = LOCATIONS.filter(r => r.city===CITY);
+    return selected_loc[(Math.floor(Math.random() * selected_loc.length))]['statecode'];
+  }
+
+  if (LOC_TYPE.toLowerCase().trim() === 'country' && CITY) {
+    var selected_loc = LOCATIONS.filter(r => r.city===CITY);
+    return selected_loc[(Math.floor(Math.random() * selected_loc.length))]['country'];
+  }
+
+  if (LOC_TYPE.toLowerCase().trim() === 'countrycode' && CITY) {
+    var selected_loc = LOCATIONS.filter(r => r.city===CITY);
+    return selected_loc[(Math.floor(Math.random() * selected_loc.length))]['countrycode'];
+  }
+
+  if (LOC_TYPE.toLowerCase().trim() === 'postalcode' && CITY) {
+    var selected_loc = LOCATIONS.filter(r => r.city===CITY);
+    return selected_loc[(Math.floor(Math.random() * selected_loc.length))]['postalcode'];
+  }
+
+  return 'NOT AVAILABLE';
+
+$$;
+
+
+/*
+ - GENERATE DATA
+   Use the following queries to insert data into tables.
+*/
+
+INSERT INTO CK_PERSONS (
+  person_id,
+  name,
+  age,
+  email,
+  phone_number,
+  gender,
+  occupation,
+  ismobilesub
+)
+SELECT person_id,
+       CONCAT(first_name, ' ', last_name) AS name,
+       age,
+       email,
+       phone_number,
+       gender,
+       occupation,
+       ismobilesub
+  FROM (
+    SELECT CAST(CONCAT(UNIFORM(1000, 9999, RANDOM()),UNIFORM(1000, 9999, RANDOM()),UNIFORM(1000, 9999, RANDOM()),UNIFORM(1000, 9999, RANDOM())) AS NUMBER) AS person_id,
+           CK_RANDOM_NAME('first') AS first_name,
+           CK_RANDOM_NAME('last') AS last_name,
+           UNIFORM(20, 80, RANDOM()) AS age,
+           CONCAT(LOWER(first_name),'.',LOWER(last_name),'+',LEFT(MD5(RANDOM()), 5),'@emailsim.io') AS email,
+           CONCAT('+',UNIFORM(1, 999, RANDOM()),UNIFORM(100, 999, RANDOM()),UNIFORM(100, 999, RANDOM()),UNIFORM(1000, 9999, RANDOM())) AS phone_number,
+           ARRAY_CONSTRUCT('male', 'female', 'NA', NULL)[UNIFORM(0, 3, RANDOM())] AS gender,
+           ARRAY_CONSTRUCT('Chief Executive Officer', 'Marketing Manager', 'Software Developer', 'Financial Analyst', 'Product Manager', 'Human Resources Manager', 'Sales Executive', 'Operations Manager', 'Customer Service Representative', 'Graphic Designer', 'Business Development Manager', 'Supply Chain Analyst', 'Data Scientist', 'IT Support Specialist', 'Quality Assurance Engineer', 'Content Strategist', 'Project Manager', 'Accountant', 'Logistics Coordinator', 'Creative Director', 'Medical Assistant', 'Event Coordinator', 'UX/UI Designer', 'Digital Marketing Specialist', 'Corporate Trainer', 'Legal Advisor', 'Environmental Consultant', 'Public Relations Manager', 'Investment Analyst', 'Talent Acquisition Specialist', NULL)[UNIFORM(0, 30, RANDOM())] AS occupation,
+           ARRAY_CONSTRUCT(true, true, false, true, true, true, true, true, true, true)[UNIFORM(0, 9, RANDOM())] AS ismobilesub
+      FROM TABLE(GENERATOR(ROWCOUNT => 20000))
+  ) vw;
+
+
+-- Relationship with CK_PERSONS as 1:1
+-- Assuming data is available for 95% of Profiles.
+-- You may choose to adjust the percentage OR remove `SAMPLE` clause, if you wish to include all Profiles.
+INSERT INTO CK_HOUSEHOLDS (
+  household_id,
+  address,
+  city,
+  state,
+  postal_code,
+  country,
+  iseligibleforfiber,
+  primary_person_id,
+  isfibreenabled
+)
+SELECT CAST(CONCAT(UNIFORM(1000, 9999, RANDOM()),UNIFORM(1000, 9999, RANDOM()),UNIFORM(1000, 9999, RANDOM()),UNIFORM(1000, 9999, RANDOM())) AS NUMBER) AS household_id,
+       NULL AS address,
+       CK_RANDOM_ADDRESS('city', null) AS city,
+       CK_RANDOM_ADDRESS('state', city) AS state,
+       CK_RANDOM_ADDRESS('postalCode', city) AS postal_code,
+       CK_RANDOM_ADDRESS('country', city) AS country,
+       ARRAY_CONSTRUCT(true, true, false, true, true, true, true, true, true, true)[UNIFORM(0, 9, RANDOM())] AS iseligibleforfiber,
+       person_id,
+       CASE
+         WHEN iseligibleforfiber = true
+           THEN ARRAY_CONSTRUCT(true, true, false, true, true, true, true, true, true, true)[UNIFORM(0, 9, RANDOM())]
+         ELSE false
+       END AS isfibreenabled
+  FROM ck_persons
+SAMPLE (95);
+
+
+-- Relationship with CK_PERSONS as 1:N
+-- Upto 4 users
+-- Assuming data is available for 90% of Profiles.
+-- You may choose to adjust the percentage OR remove `SAMPLE` clause, if you wish to include all Profiles.
+INSERT INTO CK_USERS (
+  user_id,
+  person_id,
+  household_id
+)
+SELECT CAST(CONCAT(UNIFORM(1000, 9999, RANDOM()),UNIFORM(1000, 9999, RANDOM()),UNIFORM(1000, 9999, RANDOM()),UNIFORM(1000, 9999, RANDOM())) AS NUMBER) AS user_id,
+       primary_person_id AS person_id,
+       household_id
+  FROM (
+    SELECT a.primary_person_id, a.household_id,
+           UNIFORM(1, 4, RANDOM()) AS repeater
+      FROM (SELECT primary_person_id, household_id FROM ck_households SAMPLE (90)) a
+    ) p,
+       (SELECT ROW_NUMBER() OVER(PARTITION BY NULL ORDER BY NULL) AS loops
+          FROM TABLE(GENERATOR(ROWCOUNT => 4))
+       ) i
+ WHERE p.repeater >= i.loops;
+
+
+-- Assuming relationship with CK_USERS as 1:N
+-- Assuming data is available for 95% of Profiles.
+-- You may choose to adjust the percentage OR remove `SAMPLE` clause, if you wish to include all Profiles.
+INSERT INTO CK_MONTHLY_DATA_USAGE (
+  user_id,
+  month,
+  data_usage_gb
+)
+SELECT user_id,
+       DATEADD(day, -1*UNIFORM(0, 30, RANDOM()), CURRENT_TIMESTAMP)::DATE AS month,
+       UNIFORM(1, 10::NUMBER(10,2), RANDOM()) AS data_usage_gb
+  FROM (
+    SELECT a.user_id, a.person_id, a.household_id,
+           UNIFORM(1, 50, RANDOM()) AS repeater
+      FROM (SELECT user_id, person_id, household_id FROM ck_users SAMPLE (95)) a
+    ) p,
+       (SELECT ROW_NUMBER() OVER(PARTITION BY NULL ORDER BY NULL) AS loops
+          FROM TABLE(GENERATOR(ROWCOUNT => 50))
+       ) i
+ WHERE p.repeater >= i.loops;
+
+INSERT INTO CK_MOBILE_DATA_USAGE (
+  user_id,
+  date,
+  time,
+  app_name,
+  data_usage_mb,
+  network_type,
+  device_type,
+  country_code
+)
+SELECT user_id,
+       DATEADD(day, -1*UNIFORM(0, 30, RANDOM()), CURRENT_TIMESTAMP)::DATE AS "date",
+       TO_CHAR(DATEADD('minute', UNIFORM(0, 1440, RANDOM()), "date"), 'HH24:MI:SS.FF9') AS "time",
+       ARRAY_CONSTRUCT('Facebook', 'Instagram', 'Snapchat', 'TikTok', 'YouTube', 'WhatsApp', 'Twitter', 'Spotify', 'Netflix', 'Amazon', 'Google Maps', 'Uber', 'Venmo', 'Gmail', 'Zoom', 'Cash App', 'Pinterest', 'LinkedIn', 'Disney+', 'Reddit')[UNIFORM(0, 19, RANDOM())] AS network_type,
+       UNIFORM(1, 5120::NUMBER(10,2), RANDOM()) AS data_usage_mb,
+       ARRAY_CONSTRUCT('2G', '3G', '4G', '5G', 'LTE', 'WiFi', '3G', '3G', '4G', '5G', '5G', '5G', '5G')[UNIFORM(0, 12, RANDOM())] AS network_type,
+       ARRAY_CONSTRUCT('Mobile', 'Tablet', 'TV', 'Watch', 'Mobile', 'Mobile', 'Mobile')[UNIFORM(0, 6, RANDOM())] AS device_type,
+       CK_RANDOM_ADDRESS('countryCode', h.city) AS country_code
+  FROM (
+    SELECT a.user_id, a.person_id, a.household_id,
+           UNIFORM(1, 50, RANDOM()) AS repeater
+      FROM (SELECT user_id, person_id, household_id FROM ck_users SAMPLE (95)) a
+    ) p,
+       (SELECT ROW_NUMBER() OVER(PARTITION BY NULL ORDER BY NULL) AS loops
+          FROM TABLE(GENERATOR(ROWCOUNT => 50))
+       ) i,
+       ck_households h
+ WHERE p.repeater >= i.loops
+   AND p.household_id = h.household_id;
+```
+
+You should then see this. Click to open the **dropdown** list, and then select **Run All** to execute all the queries.
+
+![FAC](./images/dataload3.png)
+
+This will take a couple of minutes, after which you'll see this.
+
+![FAC](./images/dataload4.png)
+
+You now have demo data loaded in your Snowflake database. Feel free to explore the data in there by opening any table
 
 You've now finished the setup in Snowflake. 
 
+![FAC](./images/dataload5.png)
 
 Next Step: [1.3.2 Create schemas, data model and links](./ex2.md)
 

diff --git a/help/tutorial-comprehensive-technical/status.md b/help/tutorial-comprehensive-technical/status.md
@@ -13,7 +13,7 @@ Below is an overview of the status of the content in this tutorial.
 | [0. Getting started](./modules/gettingstarted/gettingstarted/getting-started.md) | 14/11/2024  | Yes         | - |
 | [1.1 Foundation - Setup of Adobe Experience Platform Data Collection & Web SDK](./modules/datacollection/module1.1/data-ingestion-launch-web-sdk.md) | 18/11/2024 | Yes         | -|
 | [1.2 Foundation - Data Ingestion](./modules/datacollection/module1.2/data-ingestion.md)         | 18/11/2024          | Yes         |-|
-| [1.3 Federated Audience Composition](./modules/datacollection/module1.3/fac.md)         | 07/01/2025          | Yes, 95%         | Sample data files are pending, content is 95% done and tested |
+| [1.3 Federated Audience Composition](./modules/datacollection/module1.3/fac.md)         | 07/01/2025          | Yes        | - |
 | [2.1 Foundation - Real-time Customer Profile](./modules/rtcdp-b2c/module2.1/real-time-customer-profile.md)        | 19/11/2024          | Yes         |-|
 | [2.2 Intelligent Services](./modules/rtcdp-b2c/module2.2/intelligent-services.md)      | 03/12/2024          | Yes        |-|
 | [2.3 Real-Time CDP - Build an audience and take action](./modules/rtcdp-b2c/module2.3/real-time-cdp-build-a-segment-take-action.md)       | 20/11/2024        | Yes         |-|

diff --git a/help/tutorial-comprehensive-technical/modules/datacollection/module1.3/ex2.md b/help/tutorial-comprehensive-technical/modules/datacollection/module1.3/ex2.md
@@ -146,7 +146,7 @@ You'll then be back here. Click **Create links** to create another link.
 
 ![FAC](./images/fdb20.png)
 
-Next, let's define the link between the tabel `CK_MONTHLY_DATA_USAGE` and `CK_USERS`.
+Next, let's define the link between the tabel `CK_USERS` and `CK_MONTHLY_DATA_USAGE`.
 
 ![FAC](./images/fdb21.png)
 
@@ -158,8 +158,17 @@ Next, let's define the link between the tabel `CK_USERS` and `CK_HOUSEHOLDS`.
 
 ![FAC](./images/fdb23.png)
 
-You'll then be back here. Click **Save**.
+You'll then be back here. Click **Create links** to create another link.
+
 ![FAC](./images/fdb24.png)
+
+Next, let's define the link between the tabel `CK_USERS` and `CK_MOBILE_DATA_USAGE`.
+
+![FAC](./images/fdb25.png)
+
+You should then see this. Click **Save**.
+
+![FAC](./images/fdb26.png)
 
 Your setup in AEP is now done. You can now start using your federated data in a federated audience composition.
 
